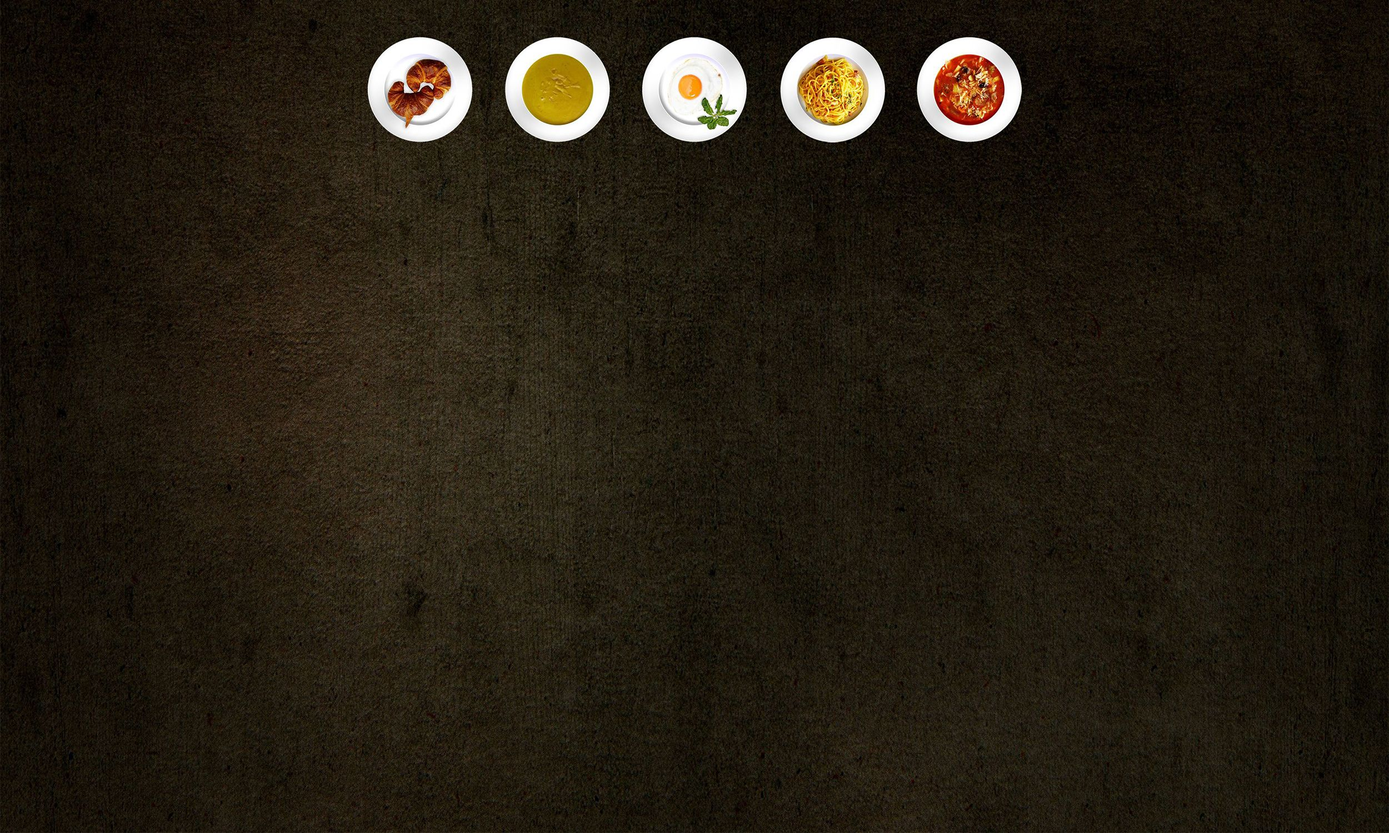
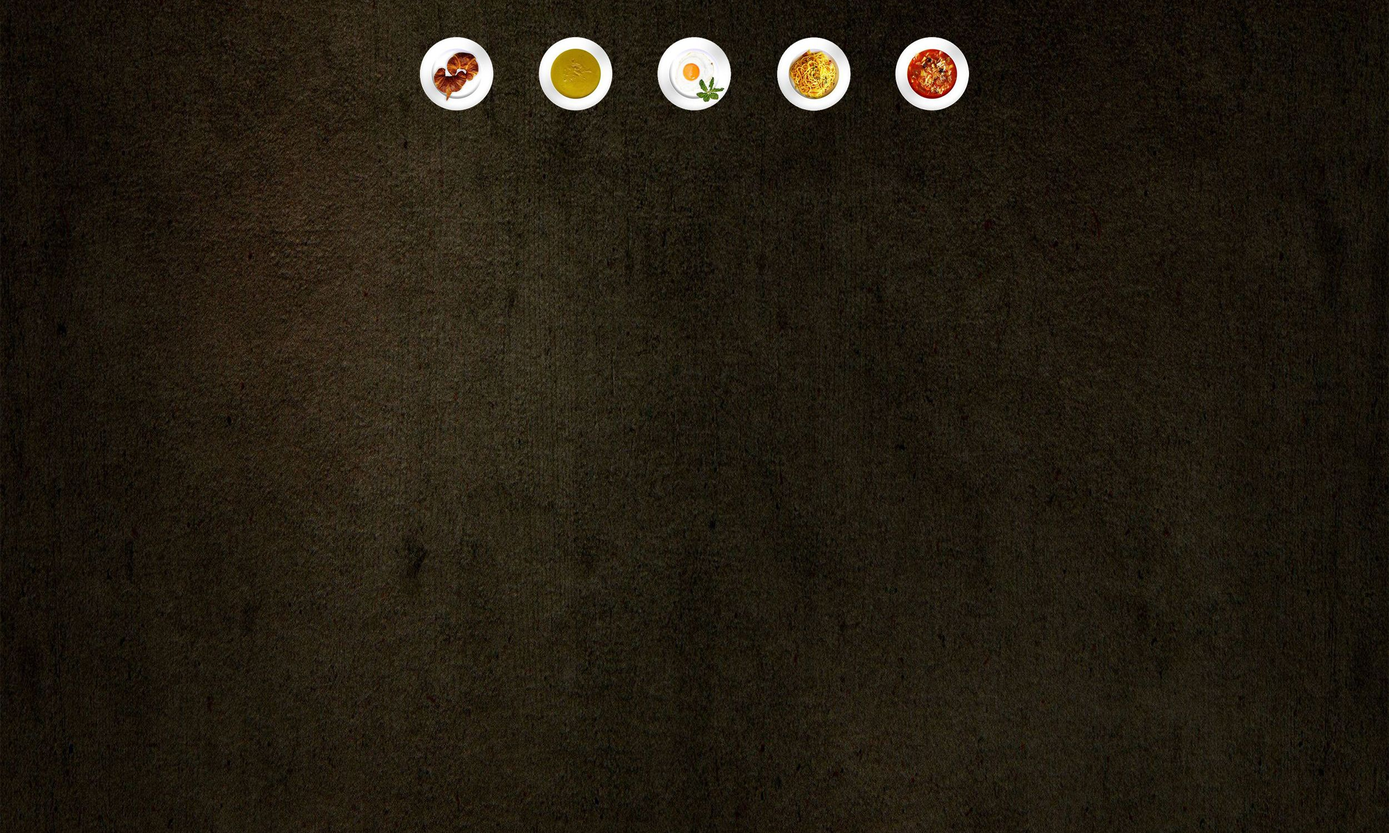
changed header image dishes, added scroll to marker click, added some 630 and 480 queries

diff --git a/index.html b/index.html
@@ -69,7 +69,7 @@
 </main>
 
 <footer>
-&copy; 2017 <a href="http://codedbyjessica.com">Jessica Zhang</a>, <a href="http://courtneylabog.com/">Courtney Labog</a>, <a href="http://www.julescode.com/">Jules Garcia</a> | API Powered by Zomato, Google Maps | <a href="https://twitter.com/intent/tweet?text=I've%20been%20finding%20restaurants%20near%20me%20using%20http%3A%2F%2F!!!URLHERE!!!%20developed%20by%20@codedbyjessica%20@courtney_labog%20@Jules_gp" target="_blank">Share on Twitter</a>
+&copy; 2017 <a href="http://codedbyjessica.com" target="_blank">Jessica Zhang</a>, <a href="http://courtneylabog.com/" target="_blank">Courtney Labog</a>, <a href="http://www.julescode.com/" target="_blank">Jules Garcia</a> | API Powered by Zomato, Google Maps | <a href="https://twitter.com/intent/tweet?text=I've%20been%20finding%20restaurants%20near%20me%20using%20http%3A%2F%2F!!!URLHERE!!!%20developed%20by%20@codedbyjessica%20@courtney_labog%20@Jules_gp" target="_blank">Share on Twitter</a>
 </footer>
 
 <script src="https://ajax.googleapis.com/ajax/libs/jquery/1.10.2/jquery.min.js"></script>

diff --git a/dev/styles/style.scss b/dev/styles/style.scss
@@ -38,7 +38,7 @@ header{
 	background-image: url("../../images/hero.jpg");
 	background-size: cover;
 	background-position: top;
-	min-height: 100vh;
+	min-height: 96vh;
 	width:100%;
 	display: flex;
 	flex-direction:column;
@@ -57,6 +57,9 @@ header{
 		margin-bottom: 10px;
 		text-transform: uppercase;
 		font-size: 5rem;
+		@media (max-width: 480px) {
+		font-size: 3rem;
+		}
 	}
 }
 
@@ -168,12 +171,18 @@ input {
 .svgWrapper{
 	width:12%;
 	margin: 0 auto;
+	@media (max-width: 630px) {
+		width:30%;
+	}
+	@media (max-width: 480px) {
+		width:50%;
+	}
 }
 
 .input__textbox {
 	color: $briefColorMain;
-	font-size: 2.5rem;
-	padding: 20px 15px;
+	font-size: 2rem;
+	padding: 10px;
 }
 
 .input__submit{
@@ -184,6 +193,14 @@ input {
 	font-size: 2.5rem;
 	background-color:$briefColorSecondary;
 	color: $briefColorQuat;
+	@media (max-width: 630px) {
+		padding:10px;
+		font-size: 1.5rem;
+	}
+	@media (max-width: 480px) {
+		padding:10px;
+		font-size: 1rem;
+	}
 }
 
 #inputRating{

diff --git a/dev/scripts/script.js b/dev/scripts/script.js
@@ -198,6 +198,10 @@ zomatoApp.displayMarker = function(results) {
               }else {
                   var priceDollar = "No price information available for this restaurant"
               }
+
+                $('html, body').animate({
+                scrollTop: $("#infoRestaurant").offset().top
+                }, 500);
                 // infoWindow.setContent(`<h3>${marker.title}</h3>`);
                 infoWindow.setContent(infoWindowContent[i][0]);
                 zomatoApp.restoLatitude = marker.latitude;
@@ -216,6 +220,7 @@ zomatoApp.displayMarker = function(results) {
                 infoWindow.open(zomatoApp.map, marker);
 
             }
+
         })(marker, i));
 
         // Automatically center the map fitting all markers on the screen
